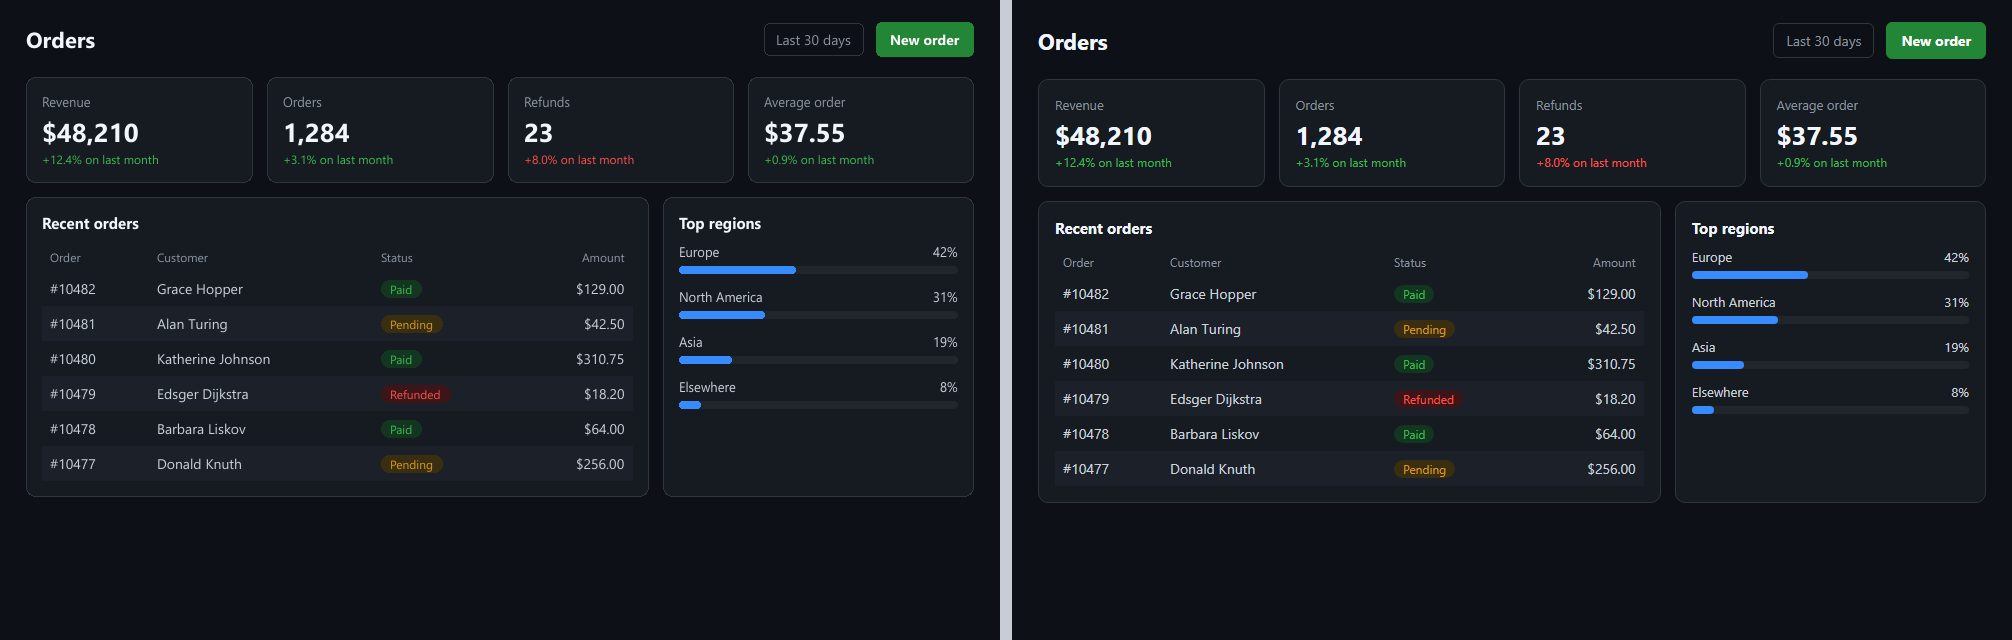
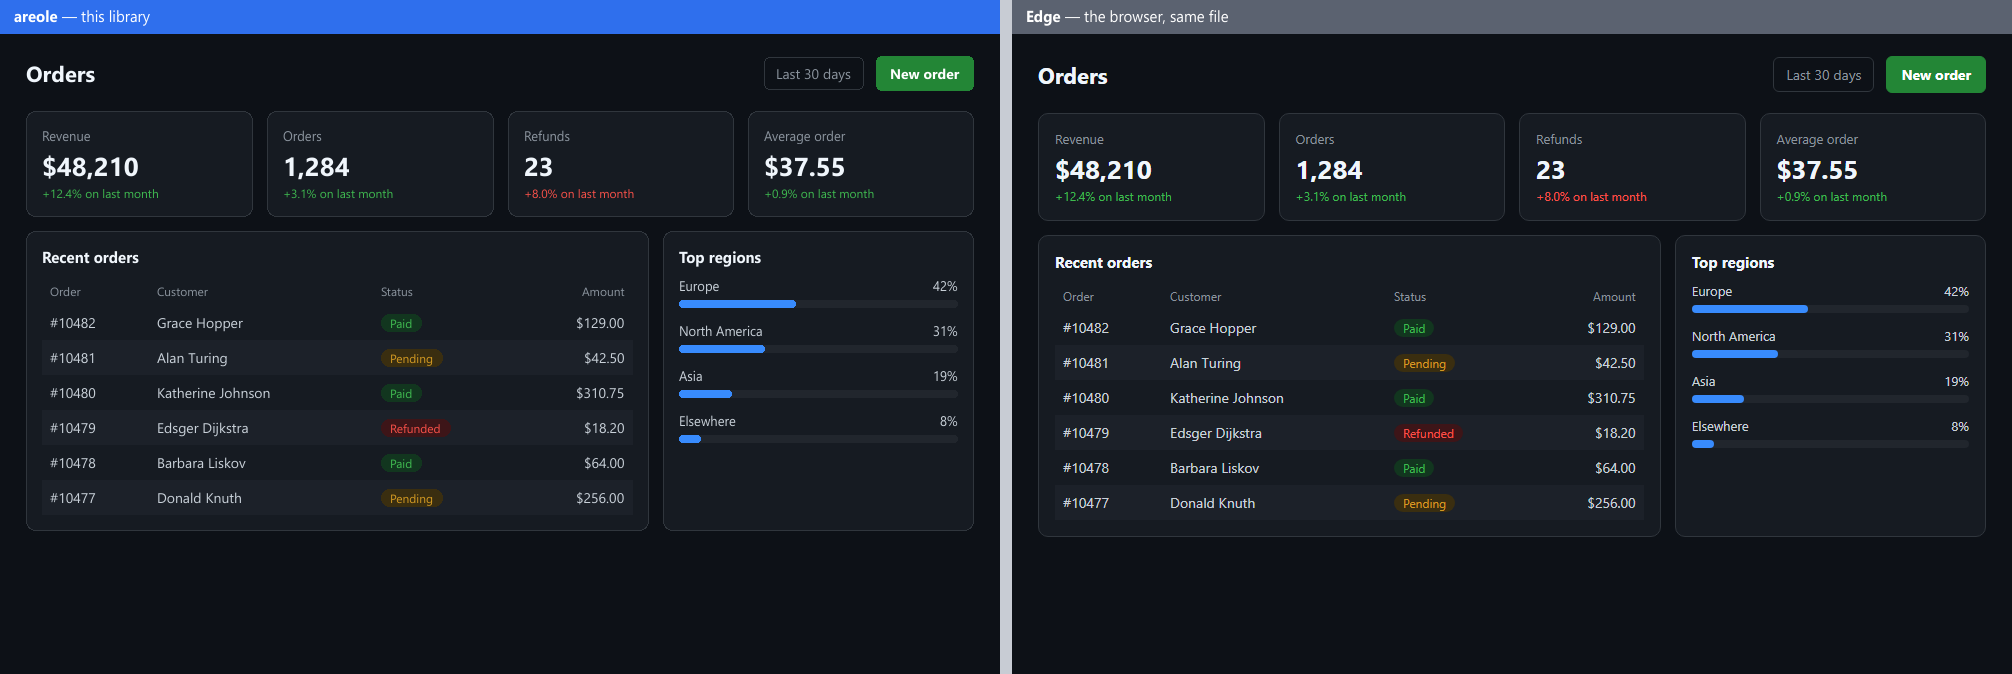
docs: name each half of the comparison pictures
Each picture in the README now says which half is areole and which is Edge,
in a strip areole draws itself.

diff --git a/tools/readme_shots.py b/tools/readme_shots.py
@@ -117,6 +117,25 @@ def engine_args(folder, faces, page, size):
     return args
 
 
+LABEL_H = 34
+LABEL = """<!doctype html><html><body style="margin:0; background:%s">
+<div style="padding:6px 14px; font-family:'Segoe UI'; font-size:15px; color:#ffffff">
+<b>%s</b> %s</div></body></html>"""
+
+
+def label(folder, w, name, note, bg):
+    """A strip naming one half of a picture, drawn by areole like everything
+    else here."""
+    with tempfile.TemporaryDirectory(prefix='areole-label-') as tmp:
+        page = os.path.join(tmp, 'label.html')
+        ppm = os.path.join(tmp, 'label.ppm')
+        with io.open(page, 'w', encoding='utf-8') as f:
+            f.write(LABEL % (bg, name, note))
+        args = engine_args(folder, SEGOE, page, (w, LABEL_H))
+        subprocess.run(args + ['--ppm', ppm], capture_output=True)
+        return read_ppm(ppm)[2]
+
+
 def blend(px, i, rgb, alpha):
     for k in range(3):
         px[i + k] = (px[i + k] * (256 - alpha) + rgb[k] * alpha) >> 8
@@ -247,9 +266,13 @@ def main():
                 print('no browser screenshot of %s: docs/vs/%s.png left as it was' % (page, name))
                 continue
             gap = 12
-            rows = [mine[y * w * 3:(y + 1) * w * 3] + b'\xc8\xcc\xd4' * gap +
-                    bytes(got[2][y * w * 3:(y + 1) * w * 3]) for y in range(h)]
-            write_png(os.path.join(docs, 'vs', name + '.png'), w * 2 + gap, h, b''.join(rows))
+            left = label(opts.fonts, w, 'areole', '&mdash; this library', '#2f6fed') + mine
+            right = label(opts.fonts, w, 'Edge', '&mdash; the browser, same file', '#5b6270')
+            right += bytes(got[2])
+            rows = [left[y * w * 3:(y + 1) * w * 3] + b'\xc8\xcc\xd4' * gap +
+                    right[y * w * 3:(y + 1) * w * 3] for y in range(h + LABEL_H)]
+            write_png(os.path.join(docs, 'vs', name + '.png'), w * 2 + gap, h + LABEL_H,
+                      b''.join(rows))
             print('docs/vs/%s.png' % name)
 
     live(engine_args(opts.fonts, SEGOE, 'docs/showcase.html', (W, H)),
